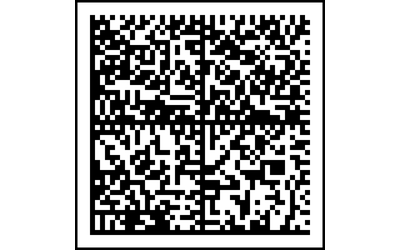
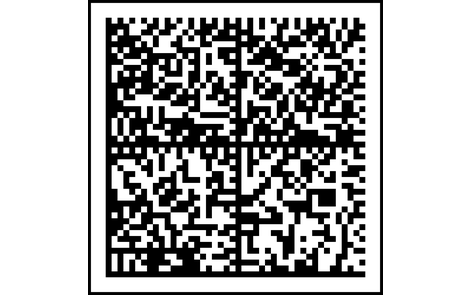
add data to print datamatrix

diff --git a/main.py b/main.py
@@ -38,10 +38,11 @@ async def handle():
 @app.post("/print-datamatrix")
 async def handle(
         printer: str = Form(...),
-        width: str = Form(...),
-        height: str = Form(...)
+        width: int = Form(...),
+        height: int = Form(...),
+        data: str = Form(...),
 ):
-    return print_datamatrix(printer, width, height)
+    return print_datamatrix(printer, width, height, data)
 
 
 @app.post("/pillow")
@@ -90,6 +91,24 @@ async def test_print_docx():
         "printer": printer_name,
         "original_file": file_path
     }
+
+
+@app.get("/datamatrix")
+async def handle():
+    """Тестовый медод на кодировку base64"""
+    input_file = "datamatrix1.txt"
+    output_file = "datamatrix2.txt"
+    try:
+        with open(input_file, "rb") as file:
+            data = file.read()
+        encoded_data = base64.b64encode(data)
+        with open(output_file, "wb") as file:
+            file.write(encoded_data)
+
+        return {"message": f"{input_file} закодирован в {output_file}"}
+
+    except Exception as e:
+        return {"error": str(e)}
 
 
 if __name__ == "__main__":

diff --git a/api/print_datamatrix.py b/api/print_datamatrix.py
@@ -4,24 +4,21 @@ from wand.image import Image as WandImage
 from PIL import Image, ImageOps
 import win32print
 import win32api
+import base64
 from wand.color import Color
 from services.zpl_converter import convert_png_to_zpl
 
 
-def print_datamatrix(printer, width, height):
+def print_datamatrix(printer, width, height, data):
     try:
         target_width_mm = width
         target_height_mm = height
         dpi = get_printer_dpi(printer)
 
-        # Рабочие директории
         root_dir = os.getcwd()
-        file_path = os.path.join(root_dir, 'datamatrix1.txt')
         tmp_png = os.path.join(root_dir, 'tmp', 'tmp1.png')
 
-        # Чтение SVG
-        with open(file_path, "r", encoding="utf-8") as file:
-            svg_data = file.read()
+        svg_data = base64.b64decode(data).decode('utf-8')
 
         # Рендеринг изображения
         render_dpi = dpi * 4
